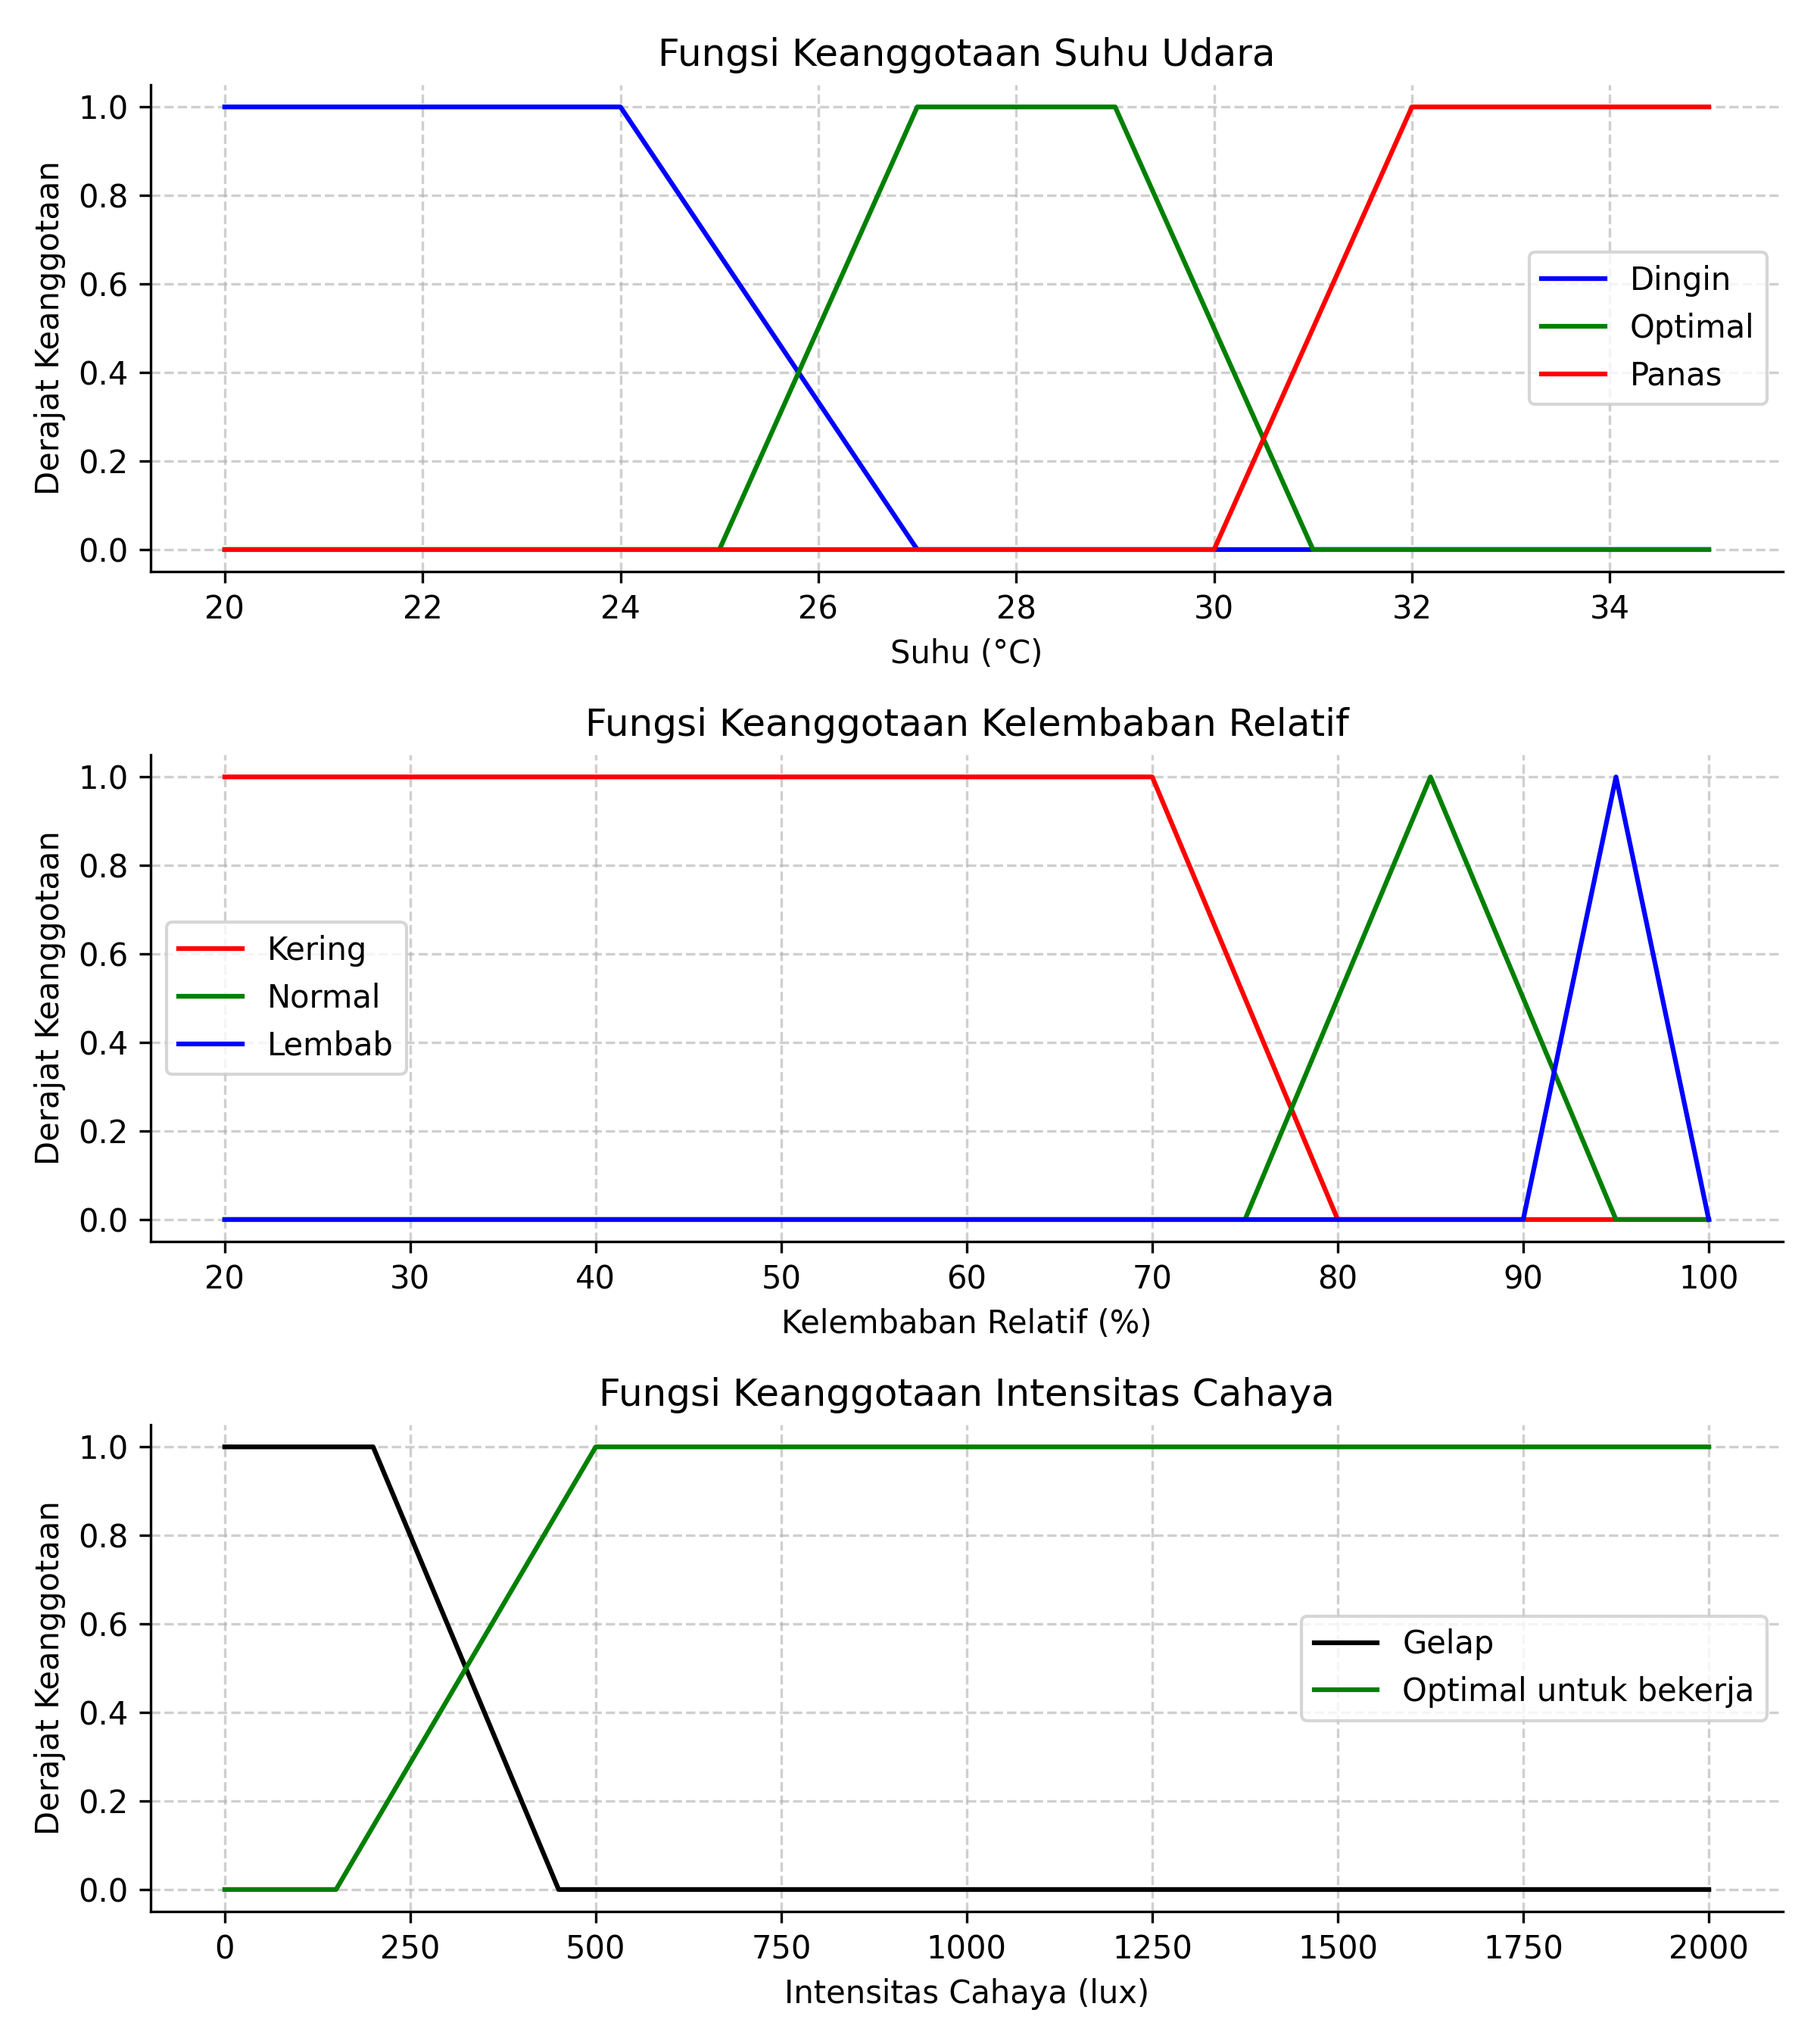
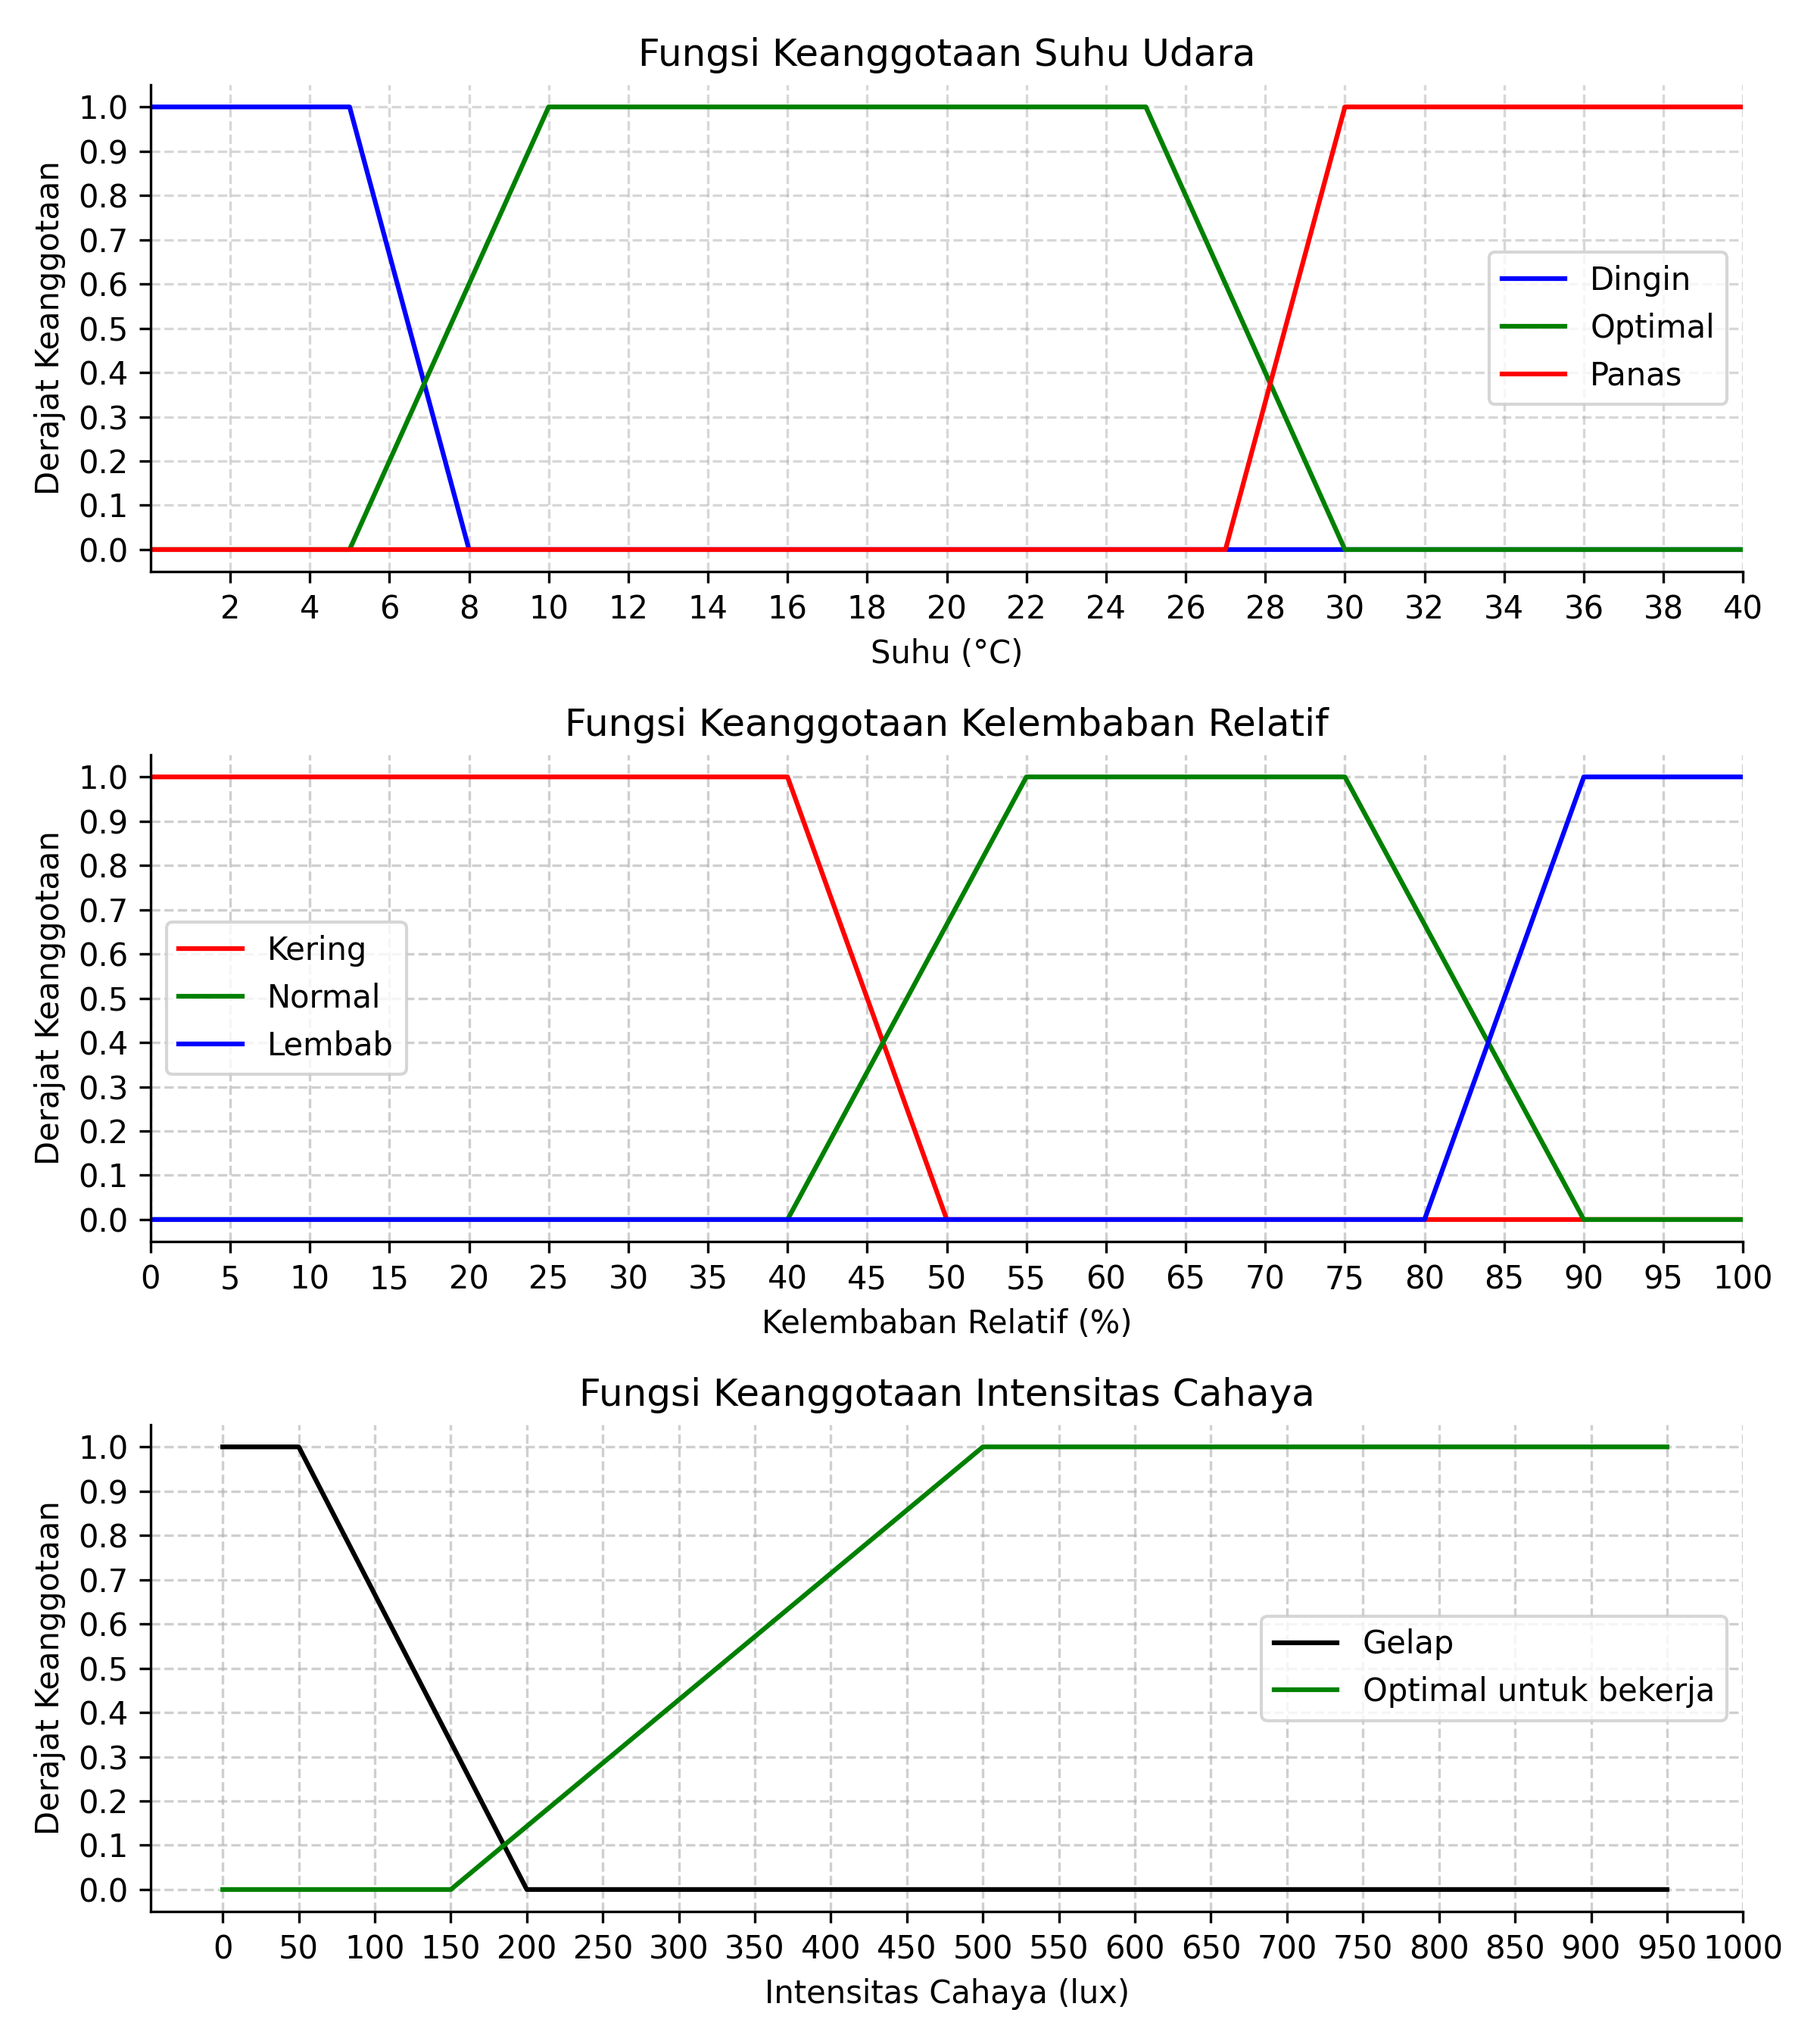
fuzzy graph maker

diff --git a/fuzzy.py b/fuzzy.py
@@ -13,9 +13,9 @@ import matplotlib.pyplot as plt
 
 # Tentukan rentang nilai (Universe of Discourse)
 # Sesuaikan rentang ini jika perlu
-temp_range = np.arange(20, 36, 1)    # Suhu dari 20 hingga 35
-hum_range  = np.arange(20, 101, 1)   # Kelembaban dari 50 hingga 100
-light_range = np.arange(0, 2001, 50) # Cahaya dari 0 hingga 2000 lux
+temp_range = np.arange(0, 41, 1)     # Suhu dari 5 hingga 30
+hum_range  = np.arange(0, 101, 1)    # Kelembaban dari 40 hingga 90
+light_range = np.arange(0, 1000, 50) # Cahaya dari 0 hingga 2000 lux
 
 # Buat variabel fuzzy
 suhu = ctrl.Antecedent(temp_range, 'Suhu Udara (°C)')
@@ -33,21 +33,21 @@ cahaya = ctrl.Antecedent(light_range, 'Intensitas Cahaya (lux)')
 #    Format trimf:  fuzz.trimf(x, [a, b, c])
 # ---------------------------------------------------------
 
-# Suhu MFs (Contoh berdasarkan diskusi, sesuaikan!)
-suhu['Dingin'] = fuzz.trapmf(suhu.universe, [20, 20, 24, 27])
-suhu['Optimal'] = fuzz.trapmf(suhu.universe, [25, 27, 29, 31])
-suhu['Panas'] = fuzz.trapmf(suhu.universe, [30, 32, 35, 35])
+# Suhu MFs - Adjusted for better control
+suhu['Dingin'] = fuzz.trapmf(suhu.universe, [-1, -1, 5, 8])      # Falls to 0.5 at 20°C
+suhu['Optimal'] = fuzz.trapmf(suhu.universe, [5, 10, 25, 30])    # Full membership 22-24°C, ends at 27°C
+suhu['Panas'] = fuzz.trapmf(suhu.universe, [27, 30, 40, 40])      # Starts at 27°C, reaches 0.5 at 30°C
 
-# Kelembaban MFs (Contoh berdasarkan diskusi, sesuaikan!)
-kelembaban['Kering'] = fuzz.trapmf(kelembaban.universe, [20, 20, 70, 80])
-kelembaban['Normal'] = fuzz.trapmf(kelembaban.universe, [75, 85, 85, 95])
-kelembaban['Lembab'] = fuzz.trapmf(kelembaban.universe, [90, 95, 95, 100])
+# Kelembaban MFs - Adjusted for new range
+kelembaban['Kering'] = fuzz.trapmf(kelembaban.universe, [-1, -1, 40, 50])
+kelembaban['Normal'] = fuzz.trapmf(kelembaban.universe, [40, 55, 75, 90])
+kelembaban['Lembab'] = fuzz.trapmf(kelembaban.universe, [80, 90, 100, 100])
 
 # Cahaya MFs
 # DARK_FOR_WORK: Trapezoidal, 100% below 100, zero above 200
-cahaya['Gelap'] = fuzz.trapmf(cahaya.universe, [0, 0, 200, 450])
-# ADEQUATE_FOR_WORK: Trapezoidal, zero below 150, 100% above 250
-cahaya['Optimal untuk bekerja'] = fuzz.trapmf(cahaya.universe, [150, 500, 2000, 2000])
+cahaya['Gelap'] = fuzz.trapmf(cahaya.universe, [0, 0, 50, 200])
+# ADEQUATE_FOR_WORK: Trapezoidal, zero below 150, 100% above 500
+cahaya['Optimal untuk bekerja'] = fuzz.trapmf(cahaya.universe, [150, 500, 1500, 1500])
 
 # ---------------------------------------------------------
 # 3. Plot Fungsi Keanggotaan
@@ -66,7 +66,10 @@ ax0.set_xlabel('Suhu (°C)')
 ax0.legend()
 ax0.spines['top'].set_visible(False)
 ax0.spines['right'].set_visible(False)
-ax0.grid(True, linestyle='--', alpha=0.6)
+ax0.grid(True, linestyle='--', alpha=0.5)
+ax0.set_yticks(np.arange(0, 1.1, 0.1))
+ax0.set_xticks(np.arange(2, 41, 2))
+ax0.set_xlim([0, 40])
 
 # Plot Kelembaban
 ax1.set_title('Fungsi Keanggotaan Kelembaban Relatif')
@@ -79,6 +82,9 @@ ax1.legend()
 ax1.spines['top'].set_visible(False)
 ax1.spines['right'].set_visible(False)
 ax1.grid(True, linestyle='--', alpha=0.6)
+ax1.set_yticks(np.arange(0, 1.1, 0.1))
+ax1.set_xticks(np.arange(0, 101, 5))
+ax1.set_xlim([0, 100])
 
 # Plot Cahaya
 ax2.set_title('Fungsi Keanggotaan Intensitas Cahaya')
@@ -90,6 +96,9 @@ ax2.legend()
 ax2.spines['top'].set_visible(False)
 ax2.spines['right'].set_visible(False)
 ax2.grid(True, linestyle='--', alpha=0.6)
+ax2.set_yticks(np.arange(0, 1.1, 0.1))
+ax2.set_xticks(np.arange(0, 1001, 50))
+
 
 # Sesuaikan layout dan tampilkan
 plt.tight_layout()
